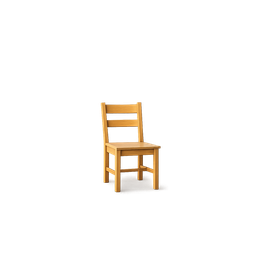
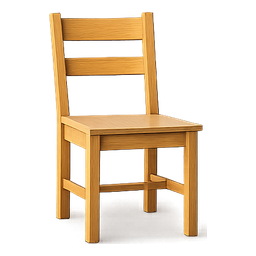
fix(itens): feedback com imagem (não emoji) + bola/cadeira/lapis corrigidos
- SequenciaItens: tela "Incorreto" agora mostra as IMAGENS (ItemVisual), não emoji
- bola: restaura os gomos brancos (floodfill tinha apagado o branco interno)
- cadeira e lápis: reprocessados maiores (sombra fraca inflava o recorte → ficavam minúsculos)

diff --git a/components/exercises/memory/SequenciaItens.tsx b/components/exercises/memory/SequenciaItens.tsx
@@ -249,9 +249,12 @@ export function SequenciaItens({ difficulty, onComplete }: SequenciaItensProps) 
             <motion.div initial={{ scale: 0.6, opacity: 0 }} animate={{ scale: 1, opacity: 1 }} className="text-5xl">{feedback === "correct" ? "✅" : "❌"}</motion.div>
             <p className="text-2xl font-black" style={{ color: feedback === "correct" ? "#4ade80" : "#f87171" }}>{feedback === "correct" ? "Correto" : "Incorreto"}</p>
             {feedback === "incorrect" && (
-              <div className="text-center text-2xl space-y-1 mt-1">
-                <p>{sequence.map((x) => x.e).join(" ")}</p>
-                <p className="text-base" style={{ color: "rgba(148,163,184,0.6)" }}>Você: {entered.map((x) => x.e).join(" ") || "—"}</p>
+              <div className="flex flex-col items-center gap-2 mt-1">
+                <div className="flex items-center gap-2">{sequence.map((x, i) => <ItemVisual key={i} name={x.n} emoji={x.e} size={44} />)}</div>
+                <div className="flex items-center gap-2">
+                  <span className="text-base" style={{ color: "rgba(148,163,184,0.6)" }}>Você:</span>
+                  {entered.length ? entered.map((x, i) => <ItemVisual key={i} name={x.n} emoji={x.e} size={34} />) : <span style={{ color: "rgba(148,163,184,0.6)" }}>—</span>}
+                </div>
               </div>
             )}
           </div>